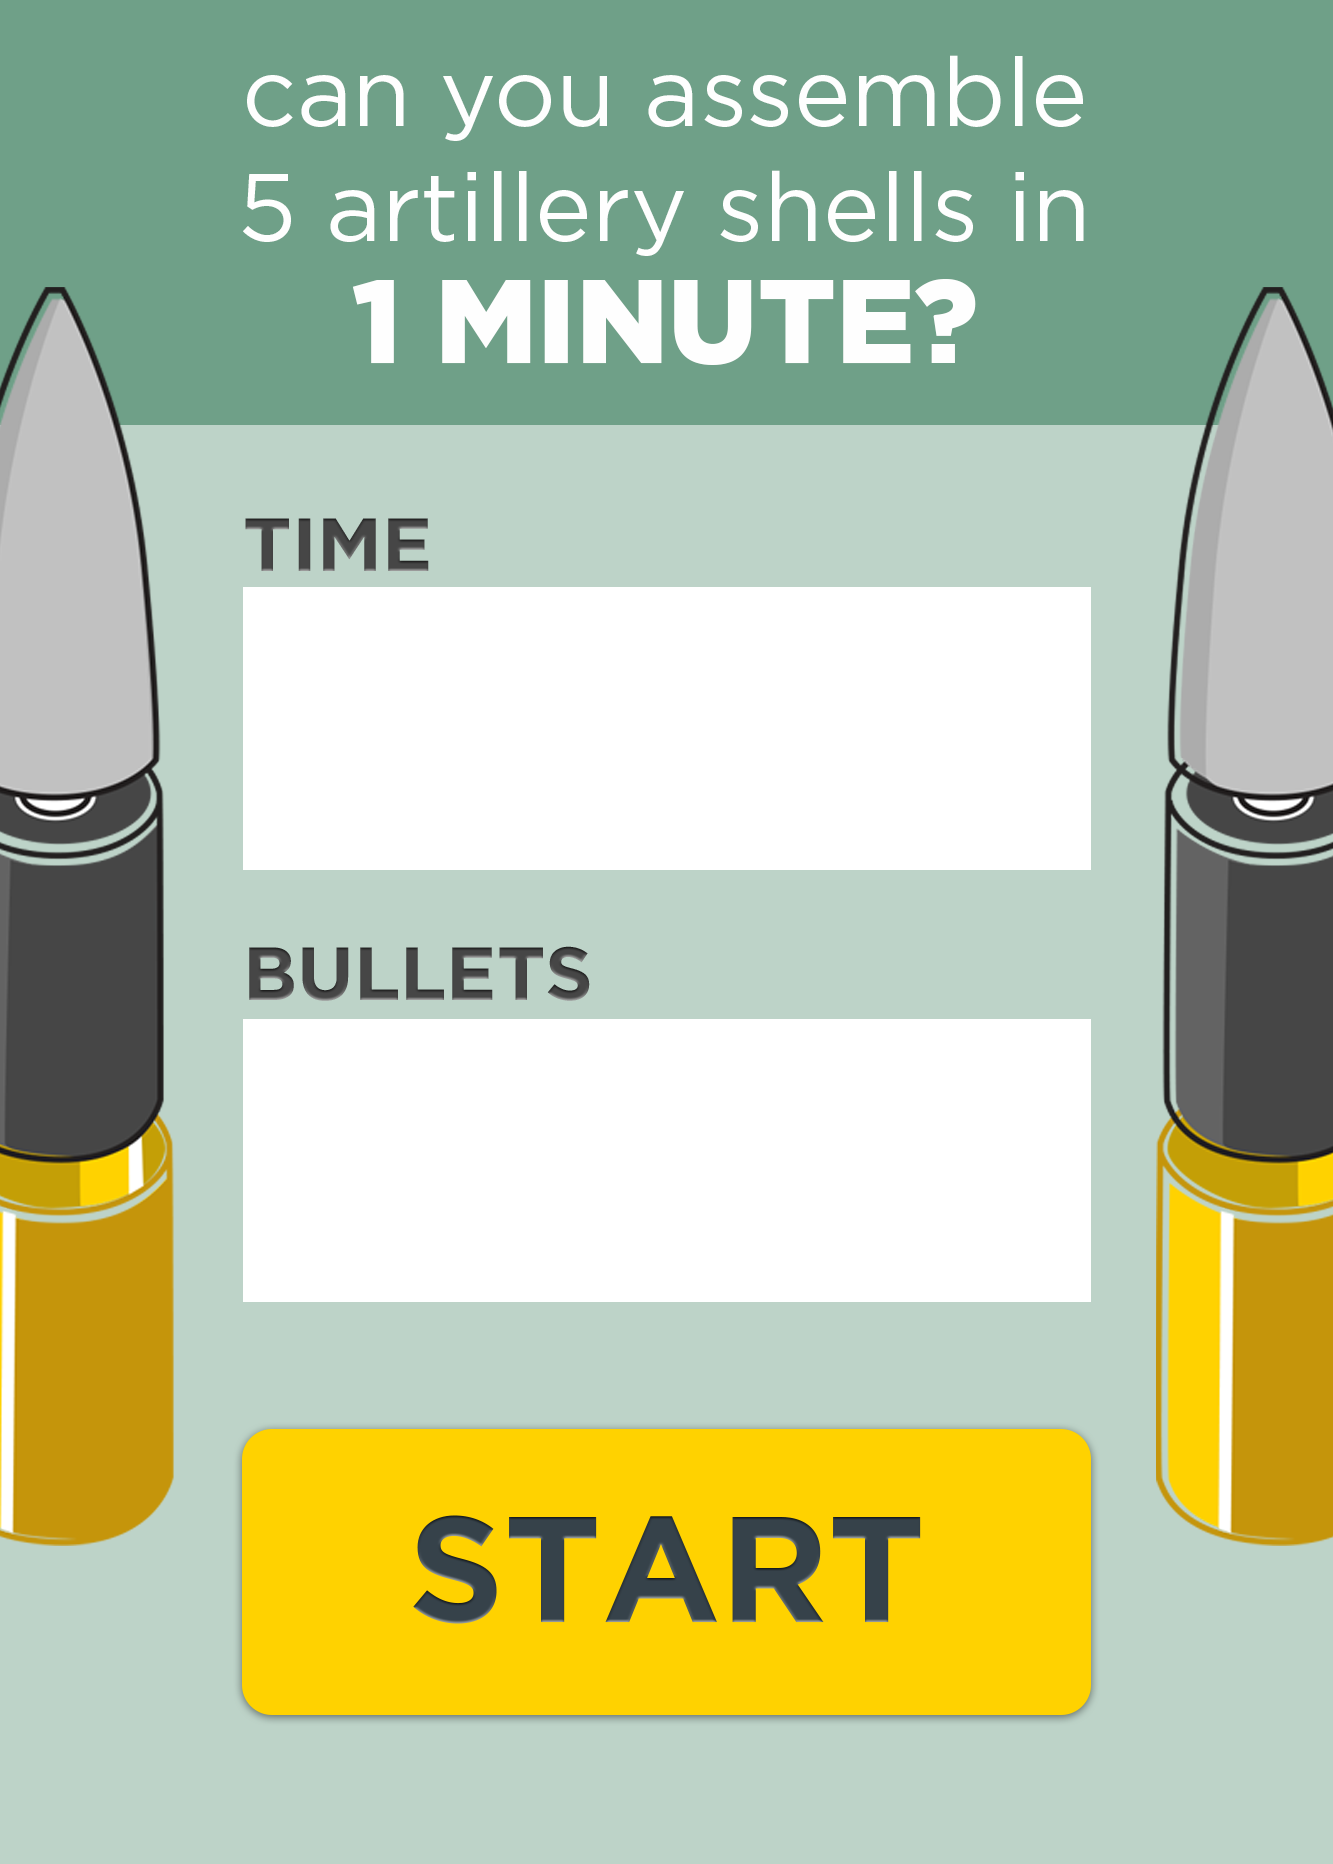
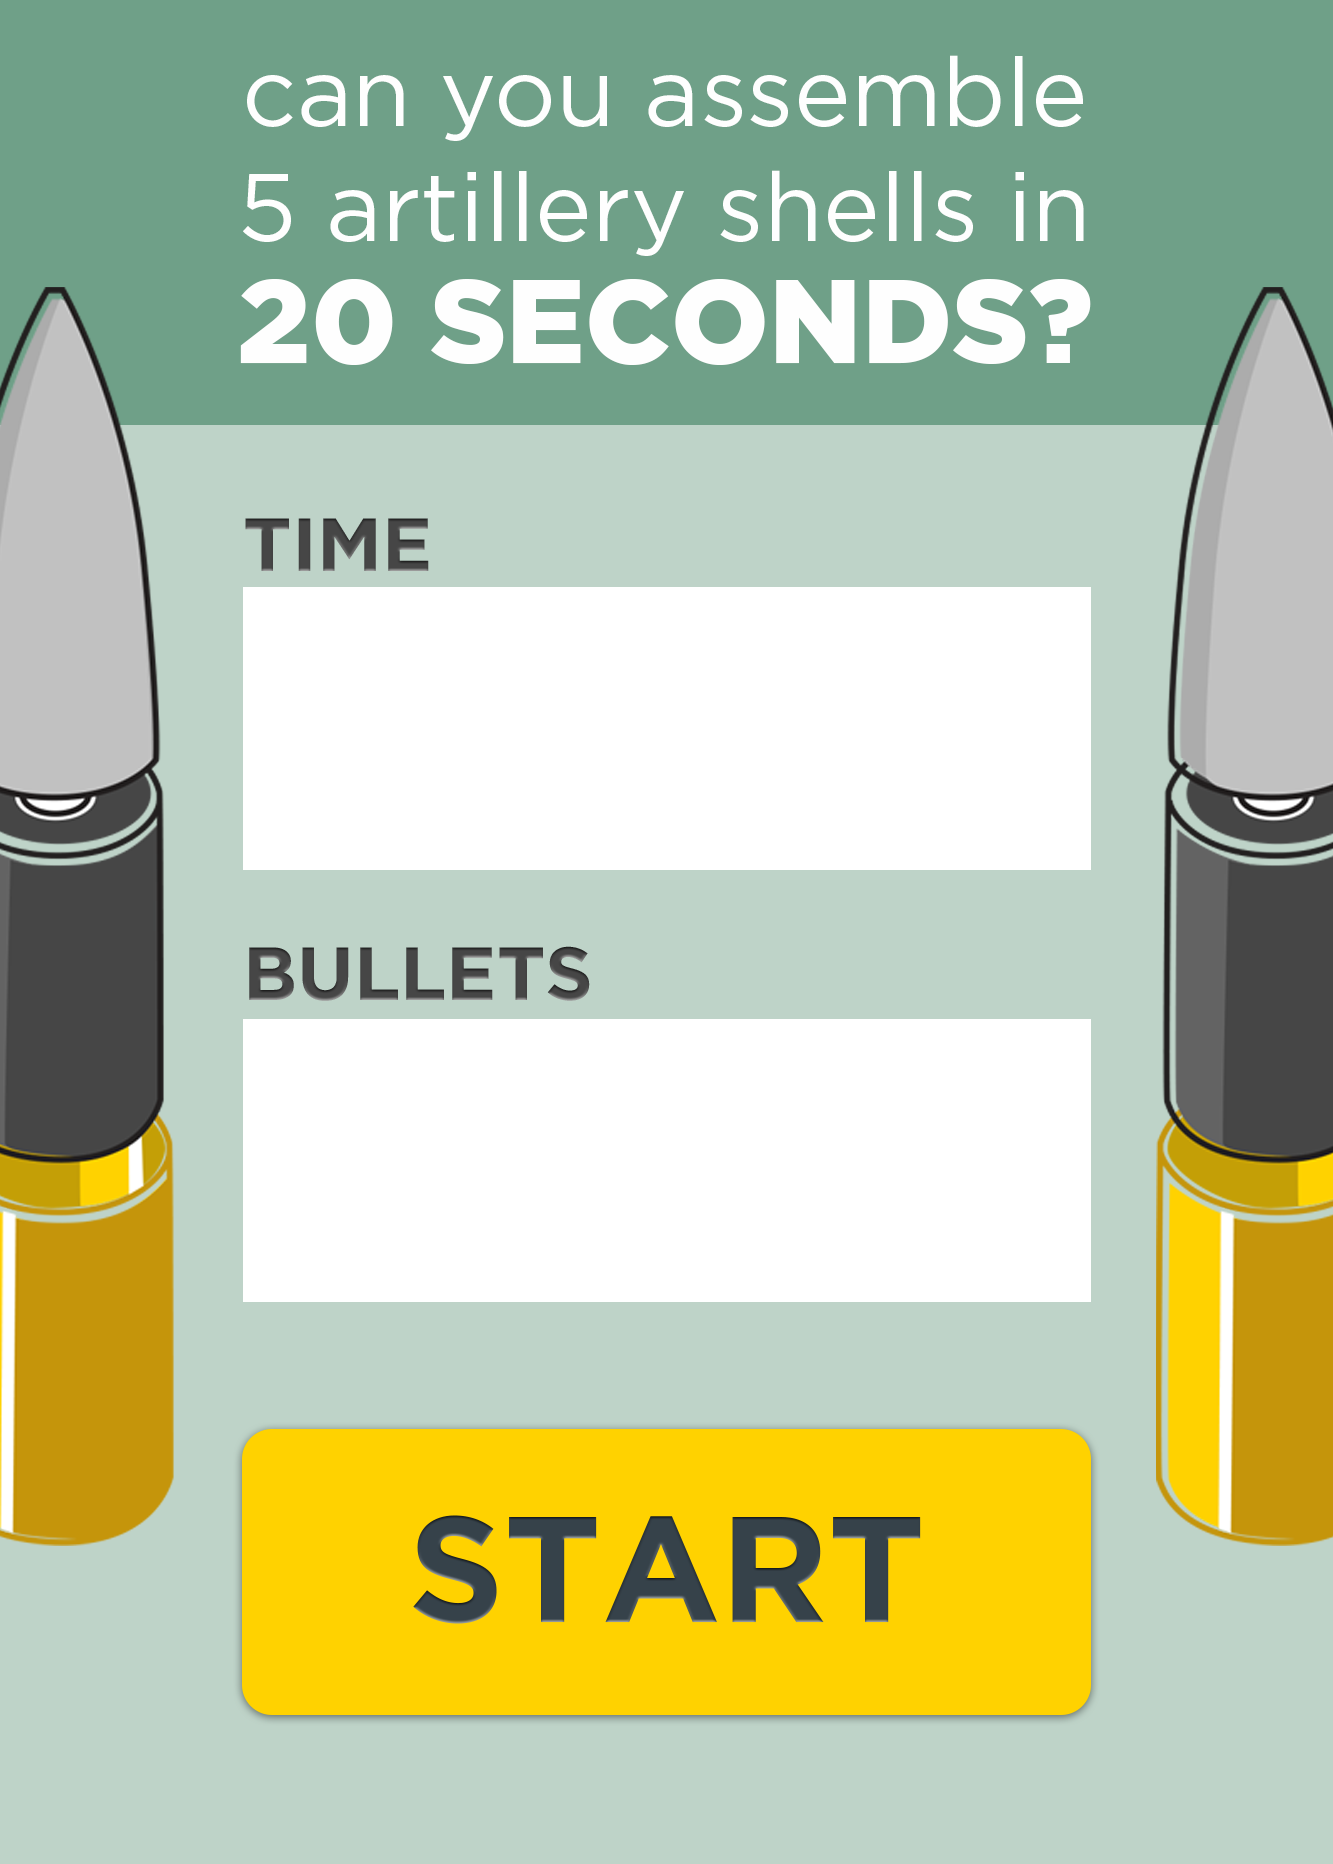
Bullet game: 5 bullets in 20 seconds

Changed region(s): [[0.1845, 0.1245, 0.8305, 0.2178]]

diff --git a/ww2/bullet/script/Game.js b/ww2/bullet/script/Game.js
@@ -23,7 +23,7 @@ every second:
 
 */
 
-var GAME_DURATION = 60000; // 1 minute
+var GAME_DURATION = 20000; // 20 seconds
 
 function shouldReplaceControl(curControl, newControl) {
   if (curControl === null) return true;
@@ -78,7 +78,7 @@ ENGINE.Game = {
     });
 
     if (window.activeControl && Date.now() - window.activeControl.start_time >= GAME_DURATION && !this.exitedToDialog) {
-      if (window.activeControl.count >= 10) {
+      if (window.activeControl.count >= 5) {
         if (document.location.search.indexOf('6667') === -1) {
           ARIS.exitToDialog(90833);
         } else {
